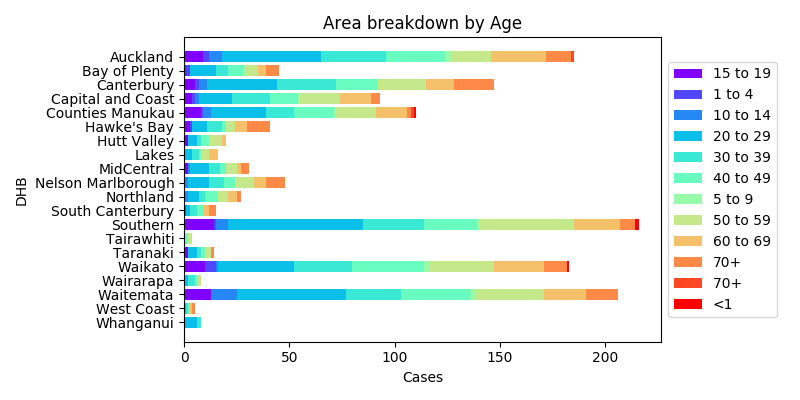
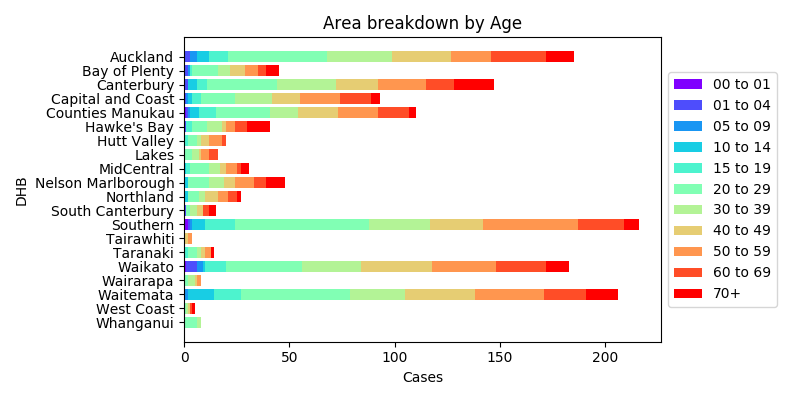
Patched around some demographic data formatting issues

Changed region(s): [[0.2188, 0.12, 0.8125, 0.84], [0.8438, 0.15, 0.9688, 0.78]]

diff --git a/NZModel/nz_data.py b/NZModel/nz_data.py
@@ -3,6 +3,7 @@ import numpy as np
 import pandas as pd
 import matplotlib.pyplot as plt
 import matplotlib.cm as cm
+import re
 
 from pandas.plotting import register_matplotlib_converters
 register_matplotlib_converters()
@@ -129,10 +130,8 @@ def plot_total():
 #   DHB Breakdown
 ###################################################################
 def plot_dhb():
+    
     plt.figure()
-
-
-
     tb = data.pivot_table(values="Count", index = [date_column,"DHB"], aggfunc="count")
     pi = tb['Count']
 
@@ -181,6 +180,20 @@ def plot_demographics():
 
     plt.figure(figsize=(8,4))
 
+    def reformat_age_range(label):
+        label = label.strip()
+
+        if label[0] == '<':
+            return '00 to %02d' % int(label[1:])
+        elif label[-1] == '+':
+            return str(int(label[:-1])) + '+'
+        else:
+            x = [int(x) for x in label.split(' to ')]
+            return "%02d to %02d" % (x[0], x[1])
+        
+    # Clean up ages
+    data["Age group"] = data["Age group"].map(reformat_age_range)
+    
     tb1 = data.pivot_table(values="Count", index = ["DHB", "Age group"], aggfunc="count")
     pi1 = tb1["Count"]
 
@@ -189,12 +202,6 @@ def plot_demographics():
     running_totals = np.zeros((len(DHBs)))
 
     groups = list(pi1.index.levels[1])
-
-    # Fix the <1 problem in a really bad way. I'm tired
-    t = groups[2]
-    groups[2] = groups[1]
-    groups[1] = groups[0]
-    groups[0] = t
 
     cmap = cm.get_cmap('rainbow')
 
@@ -225,6 +232,7 @@ def plot_demographics():
     #   Age Breakdown - Gender
     ###################################################################
     plt.figure(figsize=(8,3))
+
     tb1 = data.pivot_table(values="Count", index = ["Age group", "Sex"], aggfunc="count")
     pi1 = tb1["Count"]
 
@@ -233,12 +241,6 @@ def plot_demographics():
     sexes =  list(pi1.index.levels[1])
 
     running_totals = np.zeros((len(groups)))
-
-    # Fix the <1 problem in a really bad way. I'm tired
-    t = groups[2]
-    groups[2] = groups[1]
-    groups[1] = groups[0]
-    groups[0] = t
 
     cmap = cm.get_cmap('Set2')
     plt.gca().set_prop_cycle(color=[cmap(5), cmap(2), cmap(1)])
@@ -287,7 +289,7 @@ def plot_demographics():
     plt.gca().set_prop_cycle(color=cmap(np.arange(5)))
     plt.title("Overseas Travel")
     data[travel].replace(' ', np.nan, inplace=True)
-    data[travel] = data[travel].fillna("Unspecified")
+    data[travel].fillna("Unspecified", inplace=True)
     pi = data.pivot_table(values="Count", index = [travel], aggfunc="count")["Count"]
     plt.pie(pi.values, labels=pi.index.values, autopct='%1.1f%%',)
     plt.gca().set_aspect("equal")
